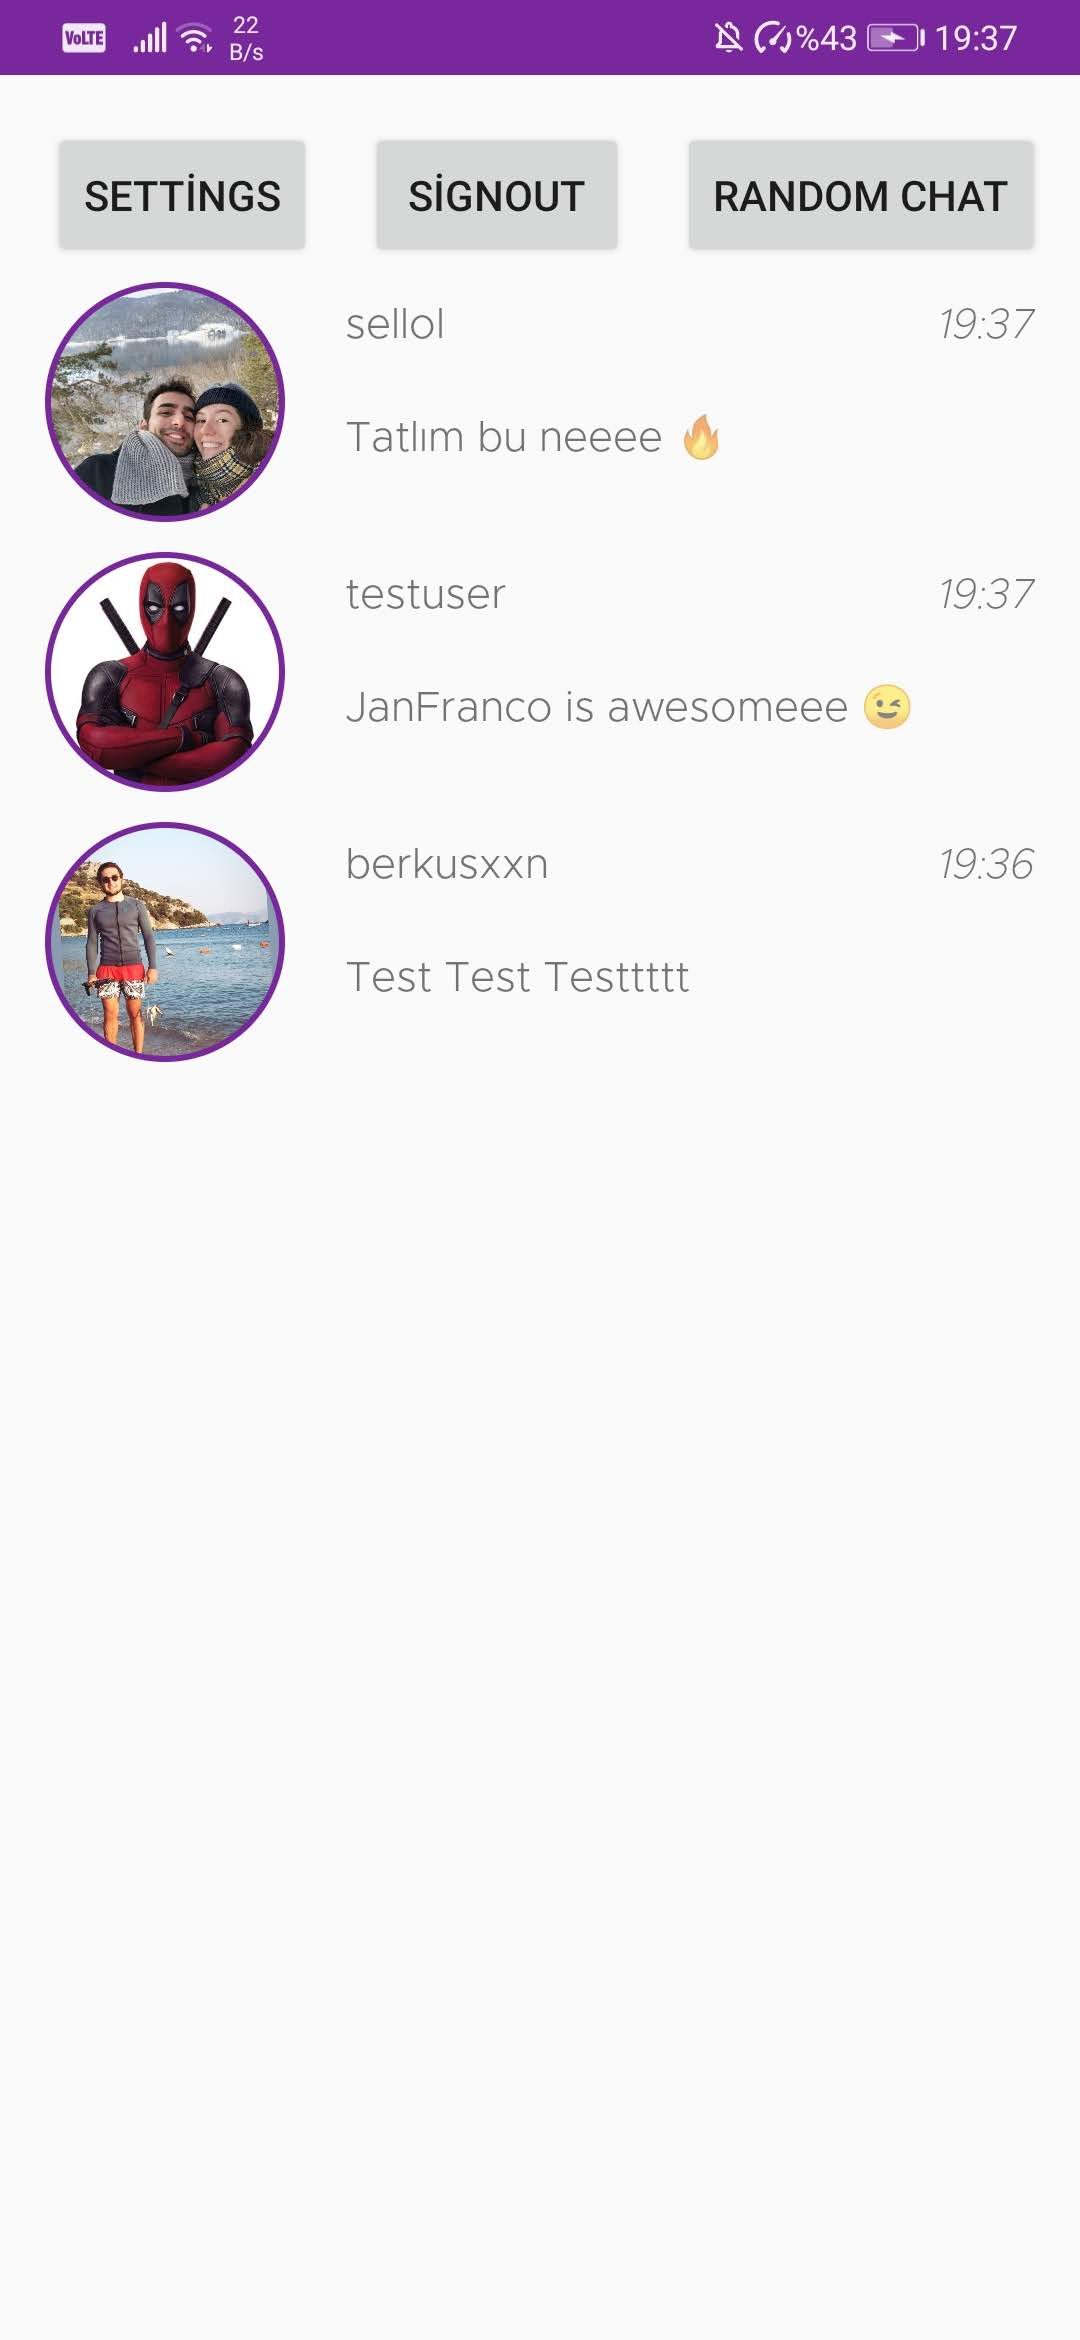
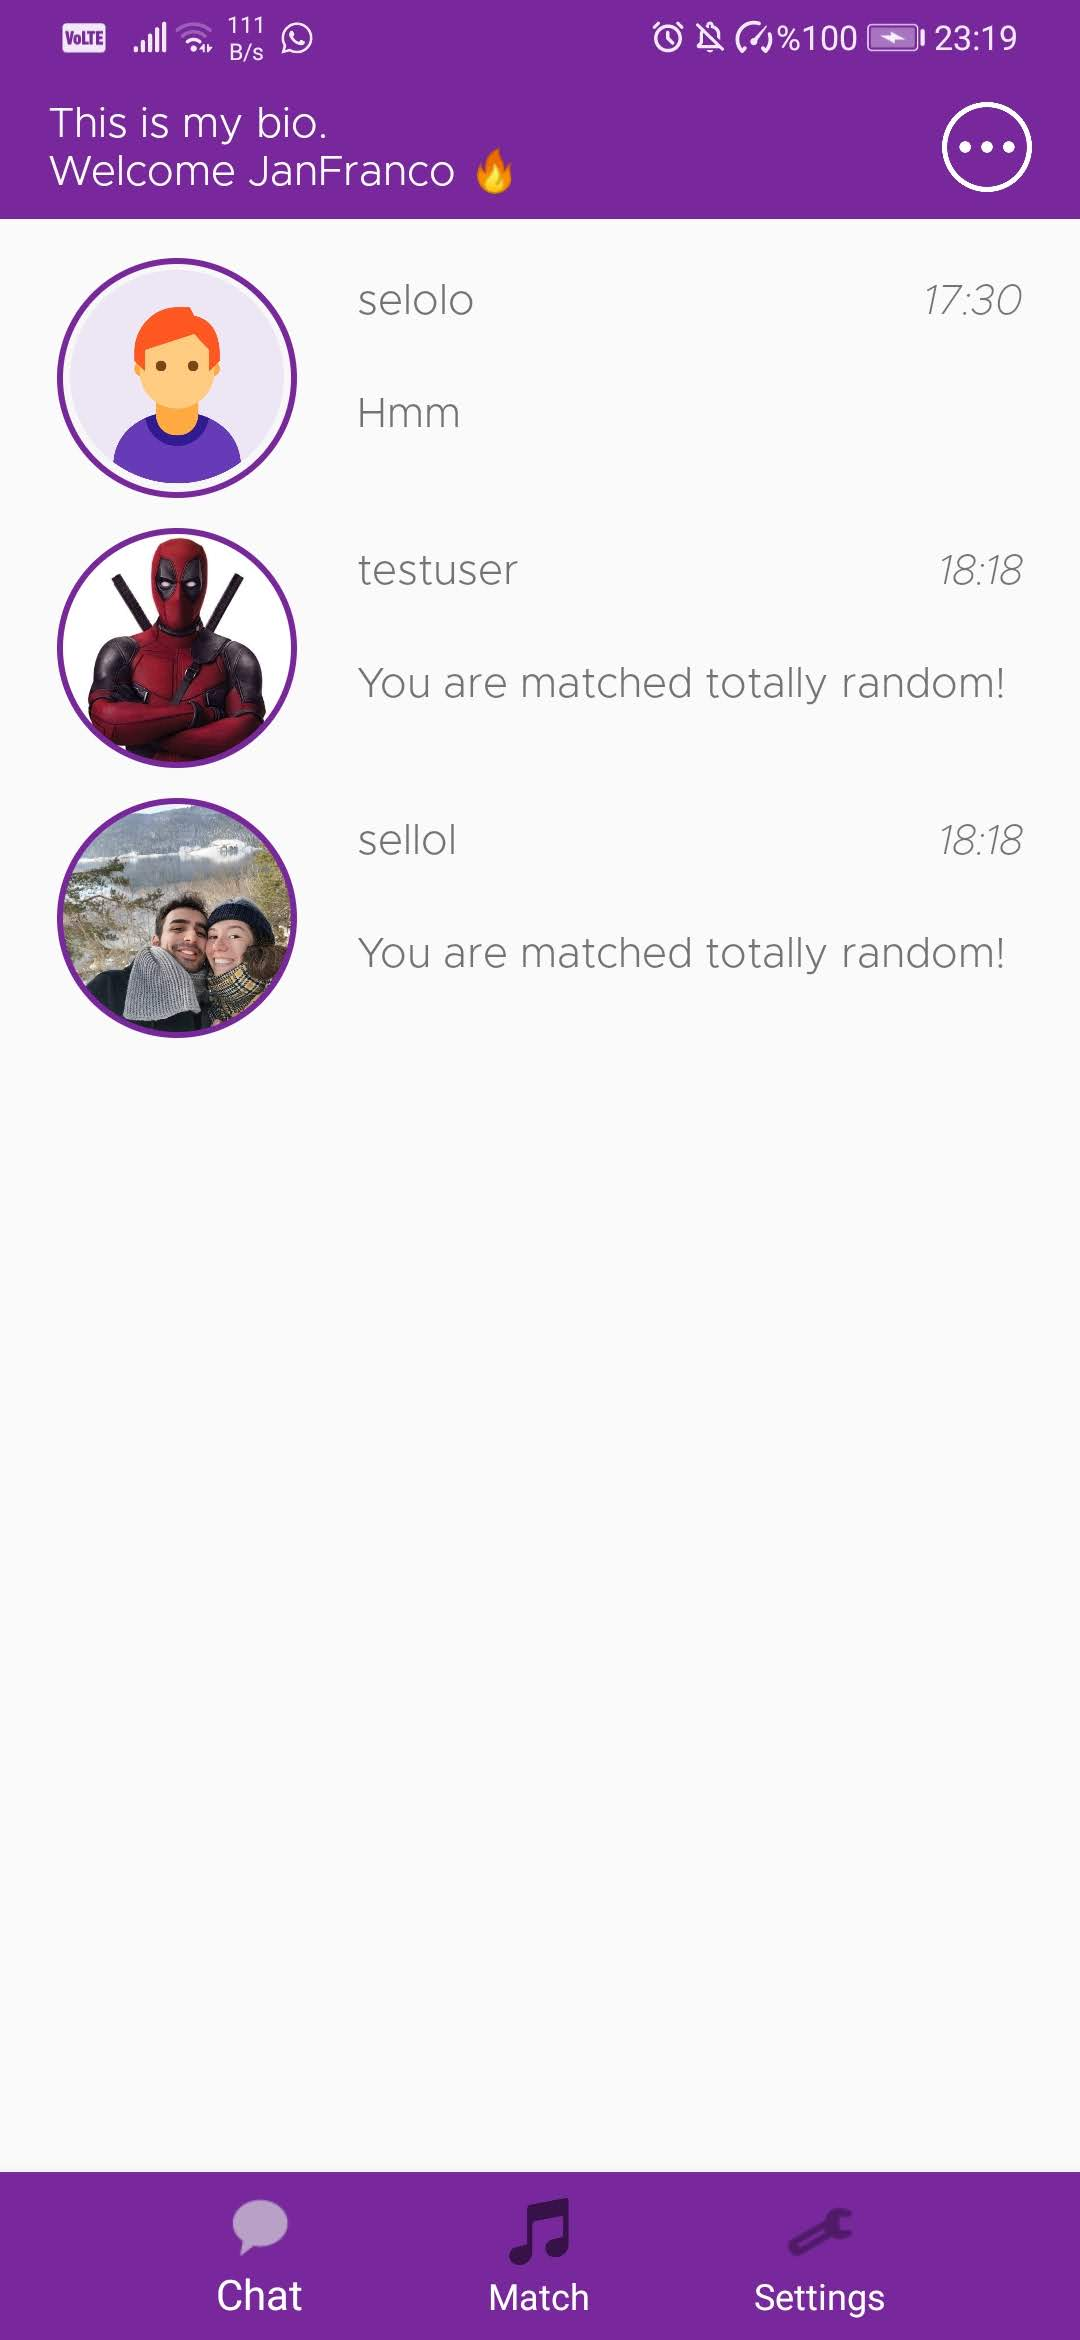
UI improvements & bug fixing

diff --git a/app/src/main/java/com/janfranco/datifysongbasedmatchapplication/HomeActivity.java b/app/src/main/java/com/janfranco/datifysongbasedmatchapplication/HomeActivity.java
@@ -9,6 +9,7 @@ import androidx.recyclerview.widget.LinearLayoutManager;
 import androidx.recyclerview.widget.RecyclerView;
 
 import android.Manifest;
+import android.annotation.SuppressLint;
 import android.app.NotificationChannel;
 import android.app.NotificationManager;
 import android.app.PendingIntent;
@@ -19,6 +20,7 @@ import android.database.Cursor;
 import android.database.sqlite.SQLiteDatabase;
 import android.database.sqlite.SQLiteStatement;
 import android.graphics.Bitmap;
+import android.graphics.Typeface;
 import android.graphics.drawable.Drawable;
 import android.os.Build;
 import android.os.Bundle;
@@ -26,8 +28,11 @@ import android.provider.MediaStore;
 import android.util.Log;
 import android.view.View;
 import android.widget.Button;
+import android.widget.PopupMenu;
+import android.widget.TextView;
 import android.widget.Toast;
 
+import com.google.android.material.bottomnavigation.BottomNavigationView;
 import com.google.firebase.Timestamp;
 import com.google.firebase.auth.FirebaseAuth;
 import com.google.firebase.firestore.FieldPath;
@@ -98,6 +103,7 @@ public class HomeActivity extends AppCompatActivity {
         // localDb.close();
     }
 
+    @SuppressLint("SetTextI18n")
     private void initialize() {
         chats = new ArrayList<>();
         chatNames = new ArrayList<>();
@@ -107,17 +113,34 @@ public class HomeActivity extends AppCompatActivity {
 
         imageSavePermission();
 
-        Button tempSettings = findViewById(R.id.tempSettingsBtn);
-        tempSettings.setOnClickListener(v -> {
-            Intent intentToSettings = new Intent(HomeActivity.this, SettingsActivity.class);
-            startActivity(intentToSettings);
+        Typeface metropolisLight = Typeface.createFromAsset(getAssets(), "fonts/Metropolis-Light.otf");
+
+        Button popMenu = findViewById(R.id.popMenu);
+        popMenu.setOnClickListener(v -> {
+            PopupMenu popup = new PopupMenu(this, popMenu);
+            popup.getMenuInflater().inflate(R.menu.home_act_pop_menu, popup.getMenu());
+            popup.setOnMenuItemClickListener(item -> {
+                if (item.getTitle().equals("Random Match!"))
+                    getRandomUser();
+                else if (item.getTitle().equals("Sign Out")) {
+                    FirebaseAuth.getInstance().signOut();
+                    Intent intentToLoginAct = new Intent(this, LoginActivity.class);
+                    startActivity(intentToLoginAct);
+                }
+                return true;
+            });
+
+            popup.show();
         });
 
-        Button tempSignOut = findViewById(R.id.tempSignout);
-        tempSignOut.setOnClickListener(v -> FirebaseAuth.getInstance().signOut());
-
-        Button tempRandomChat = findViewById(R.id.tempRandomChat);
-        tempRandomChat.setOnClickListener(v -> getRandomUser());
+        TextView userDetail = findViewById(R.id.userDetailTV);
+        if (currentUser.getUser().getBio().equals(""))
+            userDetail.setText("Welcome, " + currentUser.getUser().getUsername() + " " +
+                    new String(Character.toChars(0x1F525)));
+        else
+            userDetail.setText(currentUser.getUser().getBio() + "\nWelcome " +
+                currentUser.getUser().getUsername() + " " + new String(Character.toChars(0x1F525)));
+        userDetail.setTypeface(metropolisLight);
 
         RecyclerView recyclerView = findViewById(R.id.chatList);
         recyclerView.setLayoutManager(new LinearLayoutManager(this));
@@ -170,10 +193,19 @@ public class HomeActivity extends AppCompatActivity {
                         })
         );
 
-        Button spotifyBtn = findViewById(R.id.tempSpotify);
-        spotifyBtn.setOnClickListener(v -> {
-            Intent intent = new Intent(HomeActivity.this, SpotifyActivity.class);
-            startActivity(intent);
+        BottomNavigationView navBottom = findViewById(R.id.homeBottomNav);
+        navBottom.setSelectedItemId(R.id.page_home);
+        navBottom.setOnNavigationItemSelectedListener(item -> {
+            if (item.getItemId() == R.id.page_settings) {
+                Intent intentToMatchAct = new Intent(this, SettingsActivity.class);
+                startActivity(intentToMatchAct);
+            }
+            if (item.getItemId() == R.id.page_match) {
+                Intent intentToSpotify = new Intent(this, SpotifyActivity.class);
+                startActivity(intentToSpotify);
+                finish();
+            }
+            return false;
         });
     }
 

diff --git a/app/src/main/java/com/janfranco/datifysongbasedmatchapplication/SpotifyActivity.java b/app/src/main/java/com/janfranco/datifysongbasedmatchapplication/SpotifyActivity.java
@@ -10,13 +10,16 @@ import android.content.Intent;
 import android.database.Cursor;
 import android.database.sqlite.SQLiteDatabase;
 import android.database.sqlite.SQLiteStatement;
+import android.graphics.Typeface;
 import android.os.Bundle;
 import android.util.Log;
 import android.view.View;
 import android.widget.Button;
+import android.widget.ImageView;
 import android.widget.TextView;
 import android.widget.Toast;
 
+import com.google.android.material.bottomnavigation.BottomNavigationView;
 import com.google.firebase.Timestamp;
 import com.google.firebase.firestore.FieldValue;
 import com.google.firebase.firestore.FirebaseFirestore;
@@ -25,6 +28,7 @@ import com.spotify.android.appremote.api.ConnectionParams;
 import com.spotify.android.appremote.api.Connector;
 import com.spotify.android.appremote.api.SpotifyAppRemote;
 import com.spotify.protocol.types.Track;
+import com.squareup.picasso.Picasso;
 
 import java.util.ArrayList;
 import java.util.Objects;
@@ -43,12 +47,13 @@ public class SpotifyActivity extends AppCompatActivity {
 
     private TextView trackName;
     private TrackListRecyclerAdapter adapter;
+    private ImageView trackCover;
 
     // Todo: Add link to spotify from song list
     // Todo: Listen while not viewing the app
     // Todo: Update currTrack field on cloud while not listening and prevent matching
     //                                                              based on previous songs
-    // Todo: Get USERS via currTrack field not just ONE user and match by random idx
+    // Todo: Get USERS via currTrack field not just ONE user and let user choose
 
     @Override
     protected void onCreate(Bundle savedInstanceState) {
@@ -89,9 +94,28 @@ public class SpotifyActivity extends AppCompatActivity {
     }
 
     private void init() {
+        Typeface metropolisLight = Typeface.createFromAsset(getAssets(), "fonts/Metropolis-Light.otf");
         trackName = findViewById(R.id.trackName);
+        trackName.setTypeface(metropolisLight);
         Button matchSongBtn = findViewById(R.id.matchSongBtn);
         matchSongBtn.setOnClickListener(v -> matchBySong());
+
+        BottomNavigationView navBottom = findViewById(R.id.spotifyBottomNav);
+        navBottom.setSelectedItemId(R.id.page_match);
+        navBottom.setOnNavigationItemSelectedListener(item -> {
+            if (item.getItemId() == R.id.page_settings) {
+                Intent intentToMatchAct = new Intent(this, SettingsActivity.class);
+                startActivity(intentToMatchAct);
+            }
+            if (item.getItemId() == R.id.page_home) {
+                Intent intentToHome = new Intent(this, HomeActivity.class);
+                startActivity(intentToHome);
+                finish();
+            }
+            return false;
+        });
+
+        trackCover = findViewById(R.id.trackCover);
     }
 
     @Override
@@ -151,8 +175,11 @@ public class SpotifyActivity extends AppCompatActivity {
                 .setEventCallback(playerState -> {
                     currTrack = playerState.track;
                     if (currTrack != null) {
-                        trackName.setText("You are listening: " + currTrack.name +
+                        trackName.setText("You are listening:\n" + currTrack.name +
                                 " by " + currTrack.artist.name);
+                        Picasso.get().load("https://i.scdn.co/image/" + currTrack.imageUri.toString()).into(trackCover);
+                        mSpotifyAppRemote.getImagesApi().getImage(currTrack.imageUri)
+                                .setResultCallback(bitmap -> trackCover.setImageBitmap(bitmap));
                         updateCurrentTrack();
                     }
                 });

diff --git a/app/src/main/java/com/janfranco/datifysongbasedmatchapplication/SettingsActivity.java b/app/src/main/java/com/janfranco/datifysongbasedmatchapplication/SettingsActivity.java
@@ -40,6 +40,7 @@ import com.google.android.gms.tasks.OnCompleteListener;
 import com.google.android.gms.tasks.OnFailureListener;
 import com.google.android.gms.tasks.OnSuccessListener;
 import com.google.android.gms.tasks.Task;
+import com.google.android.material.bottomnavigation.BottomNavigationView;
 import com.google.firebase.Timestamp;
 import com.google.firebase.auth.FirebaseAuth;
 import com.google.firebase.firestore.DocumentReference;
@@ -164,13 +165,30 @@ public class SettingsActivity extends AppCompatActivity {
                 finish();
             }
         });
+
+        BottomNavigationView navBottom = findViewById(R.id.settingsBottomNav);
+        navBottom.setSelectedItemId(R.id.page_settings);
+        navBottom.setOnNavigationItemSelectedListener(item -> {
+            if (item.getItemId() == R.id.page_home) {
+                Intent intentToHome = new Intent(this, HomeActivity.class);
+                startActivity(intentToHome);
+                finish();
+            }
+            if (item.getItemId() == R.id.page_match) {
+                Intent intentToSpotify = new Intent(this, SpotifyActivity.class);
+                startActivity(intentToSpotify);
+                finish();
+            }
+            return false;
+        });
     }
 
+    /*
     @Override
     public boolean onCreateOptionsMenu(Menu menu) {
         if (!fromRegister) {
             MenuInflater menuInflater = getMenuInflater();
-            menuInflater.inflate(R.menu.settings_menu, menu);
+            menuInflater.inflate(R.menu.home_act_pop_menu, menu);
         }
         return super.onCreateOptionsMenu(menu);
     }
@@ -186,6 +204,7 @@ public class SettingsActivity extends AppCompatActivity {
         }
         return super.onOptionsItemSelected(item);
     }
+    */
 
     private void selectImage() {
         if (ContextCompat.checkSelfPermission(this, Manifest.permission.READ_EXTERNAL_STORAGE) !=

diff --git a/app/src/main/java/com/janfranco/datifysongbasedmatchapplication/ProfileActivity.java b/app/src/main/java/com/janfranco/datifysongbasedmatchapplication/ProfileActivity.java
@@ -25,6 +25,7 @@ import android.widget.Toast;
 import com.google.firebase.Timestamp;
 import com.google.firebase.firestore.FieldValue;
 import com.google.firebase.firestore.FirebaseFirestore;
+import com.google.firebase.firestore.Query;
 import com.google.firebase.firestore.QueryDocumentSnapshot;
 import com.squareup.picasso.Picasso;
 
@@ -115,7 +116,10 @@ public class ProfileActivity extends AppCompatActivity {
     }
 
     private void getTracksFromCloud() {
-        db.collection("track").document(mail).collection("list").get()
+        db.collection("track").document(mail).collection("list")
+                .orderBy("addDate", Query.Direction.DESCENDING)
+                .limit(10)
+                .get()
                 .addOnSuccessListener(queryDocumentSnapshots -> {
                     for (QueryDocumentSnapshot snapshot : queryDocumentSnapshots) {
                         Song song = snapshot.toObject(Song.class);

diff --git a/README.md b/README.md
@@ -2,10 +2,9 @@
 <br><br>
 <img src="ss_7.jpg" width="270"> <img src="ss_8.jpg" width="270"> <img src="ss_2.jpg" width="270">
 <br><br>
-<img src="ss_1.jpg" width="270"> <img src="ss_5.jpg" width="270"> <img src="ss_6.jpg" width="270">
+<img src="ss_1.jpg" width="270"> <img src="ss_5.jpg" width="270"> <img src="ss_9.jpg" width="270">
 <br><br>
 ### Next :stuck_out_tongue_winking_eye:
 ---
-* Draw
-* Listen & sing
+* Listen sync
 * Track list based recommendation
